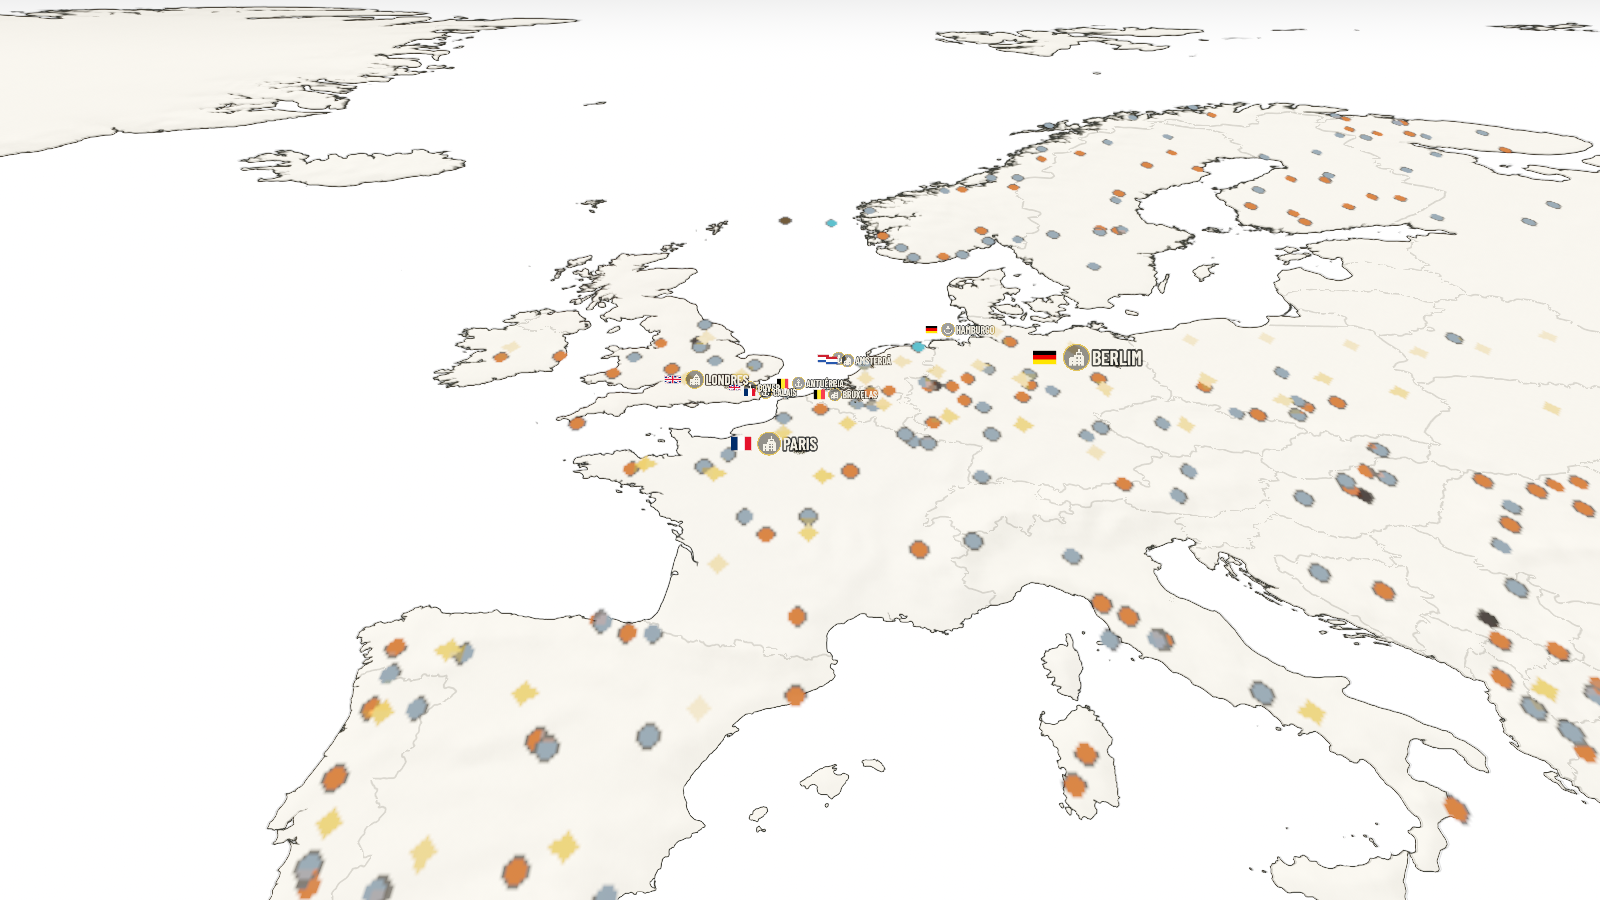
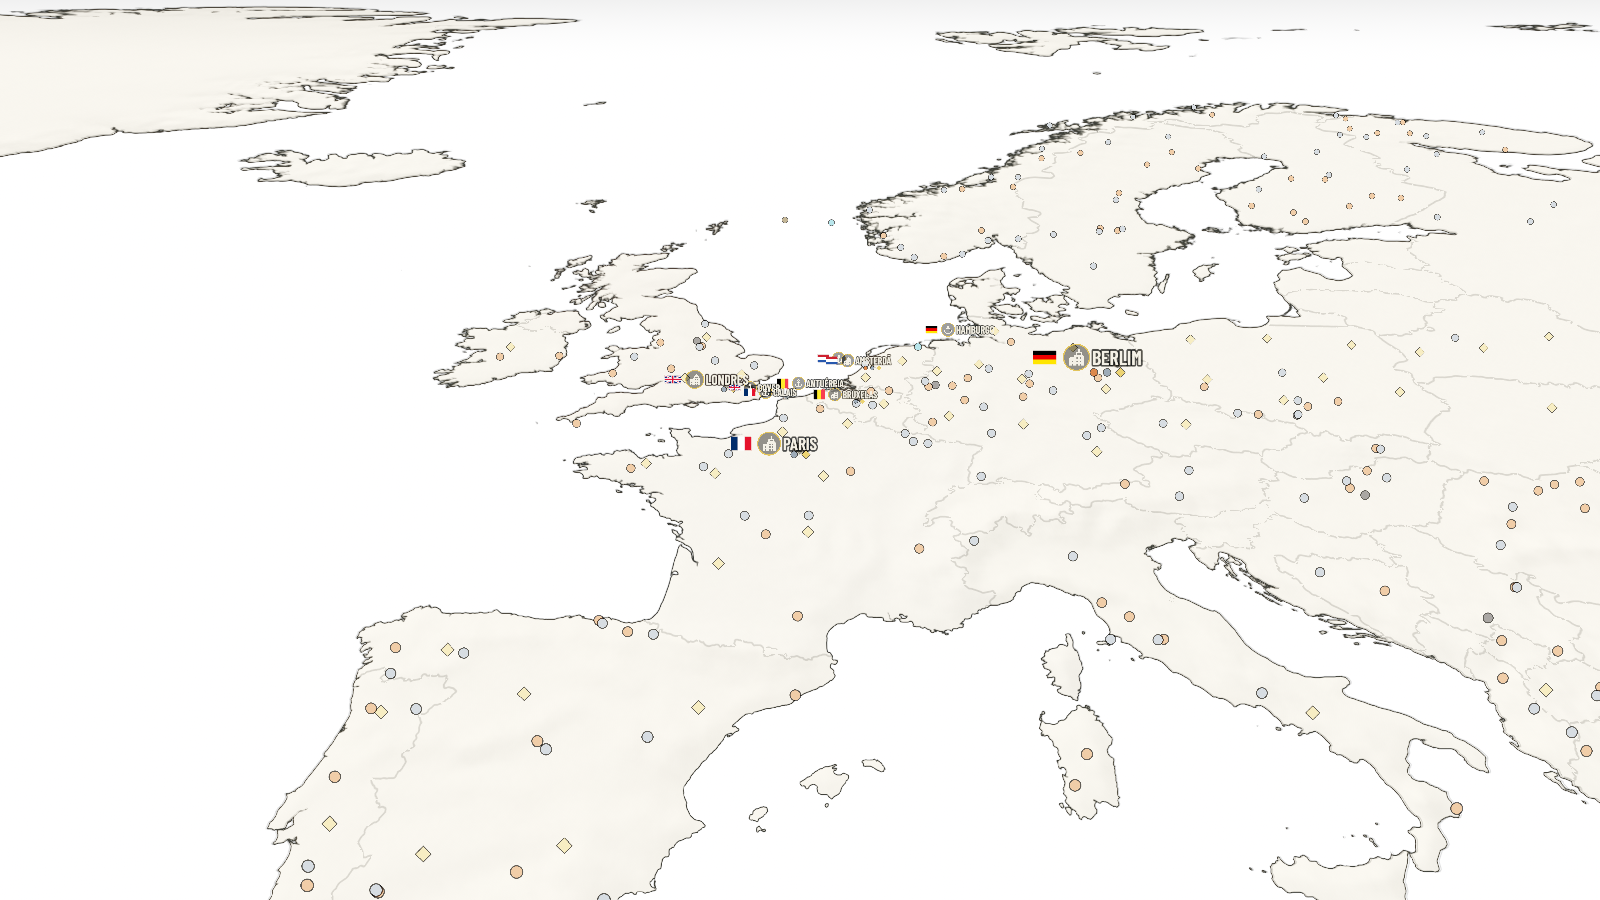
feat(map): marcadores de recurso nitidos e legenda inferior
Troca a textura ampliada (blobs borrados) por MultiMesh de billboards: circulos por deposito e losangos de trigo, nitidos em qualquer zoom, lidos de resource_points.json. Sob o nome de cada cidade no modo recursos aparece a faixa de recursos do territorio (depositos + trigo >= 0.40). Legenda vai para o canto inferior esquerdo, um pouco maior, com a explicacao da faixa (i18n map.legend.hint). Remove resources.png.

diff --git a/tools/build_resource_map.py b/tools/build_resource_map.py
@@ -2,8 +2,10 @@
 
 1. assets/ui/map_mode_political.png e map_mode_resources.png — glifos brancos
    (o HUD aplica a cor por modulate).
-2. map/map_data/atlas/resources.png — mapa de recursos: pontos coloridos para
-   os depósitos minerais e losangos para o trigo (aptidão por território).
+2. assets/icons/places/resource_dot.png e resource_wheat.png — marcadores.
+3. map/map_data/atlas/resource_points.json — pontos dos depósitos minerais e
+   dos territórios com trigo. O mapa desenha em billboards (nítidos em qualquer
+   zoom), em vez de uma textura ampliada.
 
 Fontes: tools/mode_icons/ (ícones, créditos no CREDITS.txt) e
 data/definitions/natural/ (depósitos e agricultura do Natural Earth).
@@ -19,20 +21,11 @@ from PIL import Image, ImageDraw
 ROOT = os.path.dirname(os.path.dirname(os.path.abspath(__file__)))
 ICONS = os.path.join(ROOT, "tools", "mode_icons")
 NATURAL = os.path.join(ROOT, "data", "definitions", "natural")
+PLACES = os.path.join(ROOT, "assets", "icons", "places")
 
-RESOURCE_COLORS = {
-    "coal": (62, 59, 56),
-    "copper": (192, 106, 60),
-    "gas": (78, 159, 176),
-    "iron": (124, 136, 148),
-    "oil": (91, 74, 46),
-    "wheat": (217, 180, 90),
-}
-EDGE = (23, 20, 16, 210)
-
-# 4096 × 2048 = mesma proporção do plano (1000 × 500).
-W, H = 4096, 2048
+MINERALS = ["coal", "copper", "gas", "iron", "oil"]
 WHEAT_MIN = 0.40
+EDGE = (23, 20, 16, 235)
 
 
 def white_icon(src_name: str, dst_name: str) -> None:
@@ -44,35 +37,42 @@ def white_icon(src_name: str, dst_name: str) -> None:
     print("icon", dst_name, out.size)
 
 
+def marker(size: int, shape: str) -> Image.Image:
+    img = Image.new("RGBA", (size, size), (0, 0, 0, 0))
+    d = ImageDraw.Draw(img)
+    c = size / 2.0
+    r = size * 0.40
+    if shape == "dot":
+        d.ellipse([c - r, c - r, c + r, c + r], fill=(255, 255, 255, 255),
+                  outline=EDGE, width=5)
+    else:
+        pts = [(c, c - r * 1.2), (c + r * 1.2, c), (c, c + r * 1.2), (c - r * 1.2, c)]
+        d.polygon(pts, fill=(255, 255, 255, 255), outline=EDGE)
+        d.line(pts + [pts[0]], fill=EDGE, width=5, joint="curve")
+    return img
+
+
 def read_json(name: str) -> dict:
     with open(os.path.join(NATURAL, name), encoding="utf-8") as handle:
         return json.load(handle)
 
 
-def to_px(px: float, py: float) -> tuple:
-    return (px / 5000.0 * W, py / 2500.0 * H)
-
-
-def build_resources() -> None:
-    img = Image.new("RGBA", (W, H), (0, 0, 0, 0))
-    draw = ImageDraw.Draw(img)
-
+def build_points() -> None:
     deposits = read_json("deposits.json")["deposits"]
-    counts = {}
+    minerals = []
     for dep in deposits:
         resource = str(dep.get("resource", ""))
-        color = RESOURCE_COLORS.get(resource)
-        if color is None:
+        if resource not in MINERALS:
             continue
-        x, y = to_px(float(dep.get("px", 0.0)), float(dep.get("py", 0.0)))
-        r = 2.0
-        draw.ellipse([x - r - 0.8, y - r - 0.8, x + r + 0.8, y + r + 0.8], fill=EDGE)
-        draw.ellipse([x - r, y - r, x + r, y + r], fill=color + (255,))
-        counts[resource] = counts.get(resource, 0) + 1
+        minerals.append([
+            round(float(dep.get("px", 0.0)), 1),
+            round(float(dep.get("py", 0.0)), 1),
+            MINERALS.index(resource),
+        ])
 
     agriculture = read_json("agriculture.json")["territories"]
     nature = read_json("nature.json")["territories"]
-    wheat_count = 0
+    wheat = []
     for territory, crops in agriculture.items():
         value = float(crops.get("wheat", 0.0))
         if value < WHEAT_MIN:
@@ -80,18 +80,21 @@ def build_resources() -> None:
         centroid = nature.get(territory, {}).get("centroid_px", [])
         if len(centroid) < 2:
             continue
-        x, y = to_px(float(centroid[0]), float(centroid[1]))
-        size = 3.2
-        alpha = int(120 + 135 * min(1.0, (value - WHEAT_MIN) / 0.35))
-        draw.polygon([(x, y - size), (x + size, y), (x, y + size), (x - size, y)],
-                     fill=RESOURCE_COLORS["wheat"] + (alpha,))
-        wheat_count += 1
+        wheat.append([
+            round(float(centroid[0]), 1),
+            round(float(centroid[1]), 1),
+            round(value, 2),
+        ])
 
-    out = os.path.join(ROOT, "map", "map_data", "atlas", "resources.png")
-    img.save(out)
-    print("resources.png", img.size, counts, "wheat", wheat_count)
+    out = os.path.join(ROOT, "map", "map_data", "atlas", "resource_points.json")
+    with open(out, "w", encoding="utf-8") as handle:
+        json.dump({"minerals": minerals, "wheat": wheat}, handle,
+                  separators=(",", ":"))
+    print("resource_points.json", len(minerals), "minerais", len(wheat), "trigo")
 
 
 white_icon("political.png", "map_mode_political.png")
 white_icon("resources.png", "map_mode_resources.png")
-build_resources()
+marker(64, "dot").save(os.path.join(PLACES, "resource_dot.png"))
+marker(64, "diamond").save(os.path.join(PLACES, "resource_wheat.png"))
+build_points()

diff --git a/GAME_STATE.md b/GAME_STATE.md
@@ -82,7 +82,7 @@ Fontes: `DESIGN.md` (design system) e `docs/` (evidências). Este documento abso
      - **Modo "political" (atlas):** uma passada opaca em `atlas_political.gdshader` sobre **campos de distância com sinal** gerados de vetores Natural Earth 10m por `tools/build_atlas_layers.py` (`map/map_data/atlas/`): `region_sdf/region_color` (Europa lon −25..45, lat 33..72, 4096 px, ~1,9 km/texel) + `world_sdf` (mundo, 8192 px, ~4,9 km/texel) + `world_color` (4096 px, cor chapada por país). Canais SDF: R costa, G fronteira de país, B divisa admin-1 (1.862 províncias reais na região). Linhas em pixels de tela medidas ao longo do gradiente (espessura igual em qualquer orientação), anti-aliasing, salto do eixo medial descartado pelo gradiente. Terra = cor da nação × luminância do papel (`paper_flat.png`) × grão de papel; faixa escura junto às fronteiras; mar com faixa rasa e linhas de nível; vinheta polar fundindo com o fundo do ambiente. Nações não jogáveis em tons de pergaminho por `MAPCOLOR9`. Nomes das 5 nações gravados no chão (Cinzel, i18n, âncora no polo de inacessibilidade, `nations.json`). O overlay político fica oculto neste modo. Rótulos de cidade em tom claro com halo escuro e `no_depth_test`.
      - **Território dinâmico (mundo inteiro):** a cor e a fronteira de país NÃO são mais pré-desenhadas. Unidade de território = província admin-1 do Natural Earth com **id global** (4.596 no mundo): `region_province.png` (Europa, ~1,9 km/texel) e `world_province.png` (mundo, ~4,9 km/texel) = id por pixel; `provinces.json` = país, nação, cor estática, centroide e `area_global` (px 5000×2500). O shader roda o bloco dinâmico nas duas camadas (`dyn_block`) e escolhe pela região; divisas finas de província só na Europa. Os samplers de região e mundo têm o mesmo `repeat` (exigência do Godot para sampler como argumento de função). `map/territory_map.gd` (`TerritoryMap`) atribui cada província à **cidade mais próxima da mesma nação original**; o **dono = `city["nation"]` do status do Economy** (fonte única, atualizado em `CityWorld.refresh_modes`). Uma textura 64×72 (província → cor + índice do dono) é atualizada em runtime; o shader desenha fronteira grossa onde os donos das duas províncias vizinhas diferem (canal B do SDF), divisa fina onde são iguais, e o preenchimento segue o sinal sub-texel do campo. Hoje GBR, DEU, NED e BEL têm 1 cidade (todo o território); a FRA tem Paris e **Caiena**, que segura a Guiana Francesa e, por ser a cidade francesa mais próxima, também Martinica e Guadalupe. A câmera inicial centra na **mediana** das cidades (`CityWorld.framing_center_px`), para a cidade isolada não puxar o enquadramento para o Atlântico. Rótulo da nação: posição original se o território é o original; senão recalculado sobre as províncias possuídas; some se a nação perde tudo. Debug: `CityWorld.debug_set_city_nation(id, tag)` / `debug_clear_territory_overrides()`, `map_capture -- --territory=BEL-BRU:FRA` e `--focus=FRA-CAY` (evidência: `docs/map_visual/guiana_cayenne/` e `guiana_cayenne_ned/`). Nenhuma regra faz uma cidade mudar de dono (guerra/captura fora do escopo).
      - **Demais modos:** base cartográfica branca (terra marfim, mar branco, relevo suave e contorno dos continentes) via `paper_map.gdshader`, desenhada a partir dos SDFs do Natural Earth — sem imagem de satélite —, com overlay político sutil (`political_overlay.gdshader`, composição em alfa pré-multiplicado).
-     - **Camadas do mapa:** botões quadrados acima do minimapa com **político** e **recursos** (os modos população/economia/indústria continuam em `map_modes.gdshader` + `map_mode_layer.gd`, sem botão por enquanto). O mapa de recursos usa `map/map_data/atlas/resources.png` (gerado por `tools/build_resource_map.py`) com pontos coloridos por recurso (carvão, cobre, gás, ferro, petróleo) e losangos de trigo; a legenda abre no canto esquerdo com a cor e o nome (i18n `resource.*`).
+     - **Camadas do mapa:** botões quadrados acima do minimapa com **político** e **recursos** (os modos população/economia/indústria continuam em `map_modes.gdshader` + `map_mode_layer.gd`, sem botão por enquanto). O mapa de recursos desenha **billboards nítidos** a partir de `map/map_data/atlas/resource_points.json` (gerado por `tools/build_resource_map.py`): círculos coloridos por depósito (carvão, cobre, gás, ferro, petróleo) e losangos de trigo; sob o nome de cada cidade aparece a faixa de recursos que o território dela oferece. A legenda fica no canto inferior esquerdo com cor + nome (i18n `resource.*`) e a explicação da faixa.
   2. **Editor — `map/map.gd` + `map/map_mode.gd`:** mapa raster de províncias (SubViewport/Sprite2D sobre plano 3D), com SDF/JFA de fronteiras; usado por `editor/editor.tscn` e `tools/map_capture.gd`, **não** pelo jogo.
 - **Projeção/coordenadas:** equirretangular; conversão pixel↔lonlat em `build_natural_geography.py` (`lon=px/5000*360−180`, `lat=90−py/2500*180`). Mundo = plano de 1000×500 unidades (`PIXELS_PER_WORLD_UNIT=5`).
 - **Camadas raster (`map/map_data/`):**
